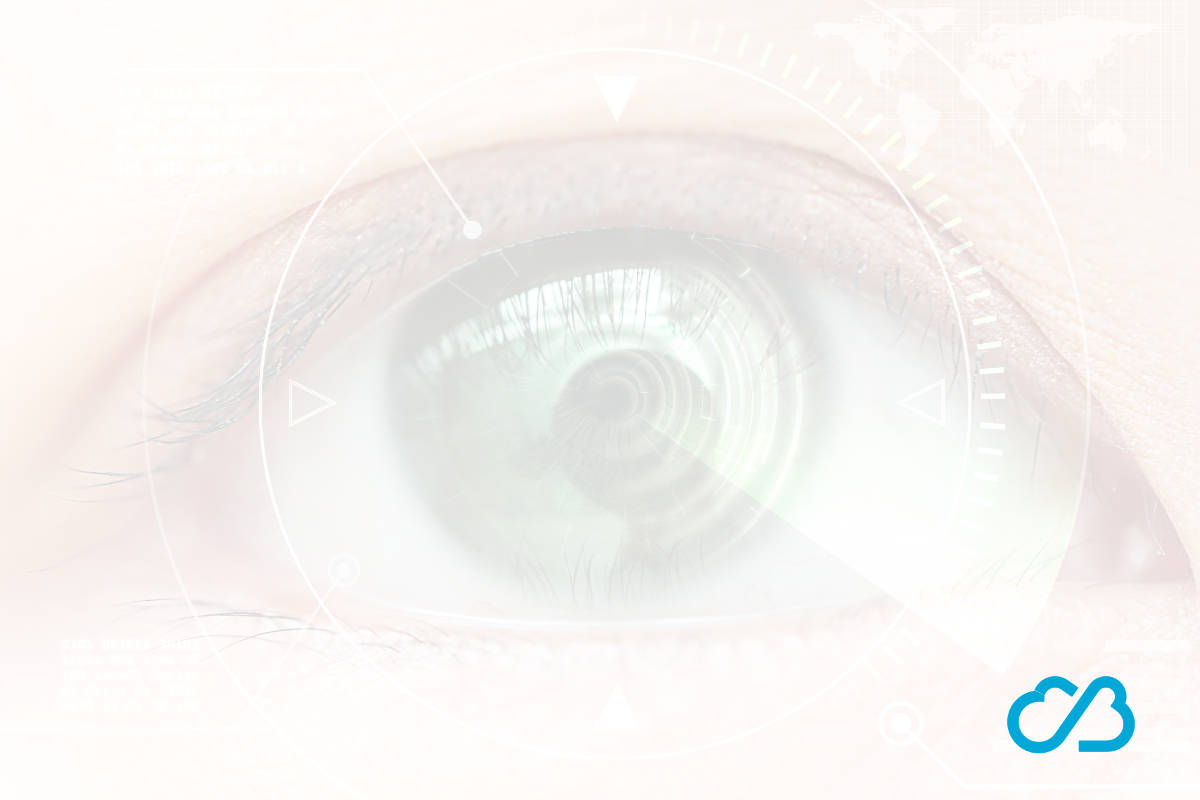
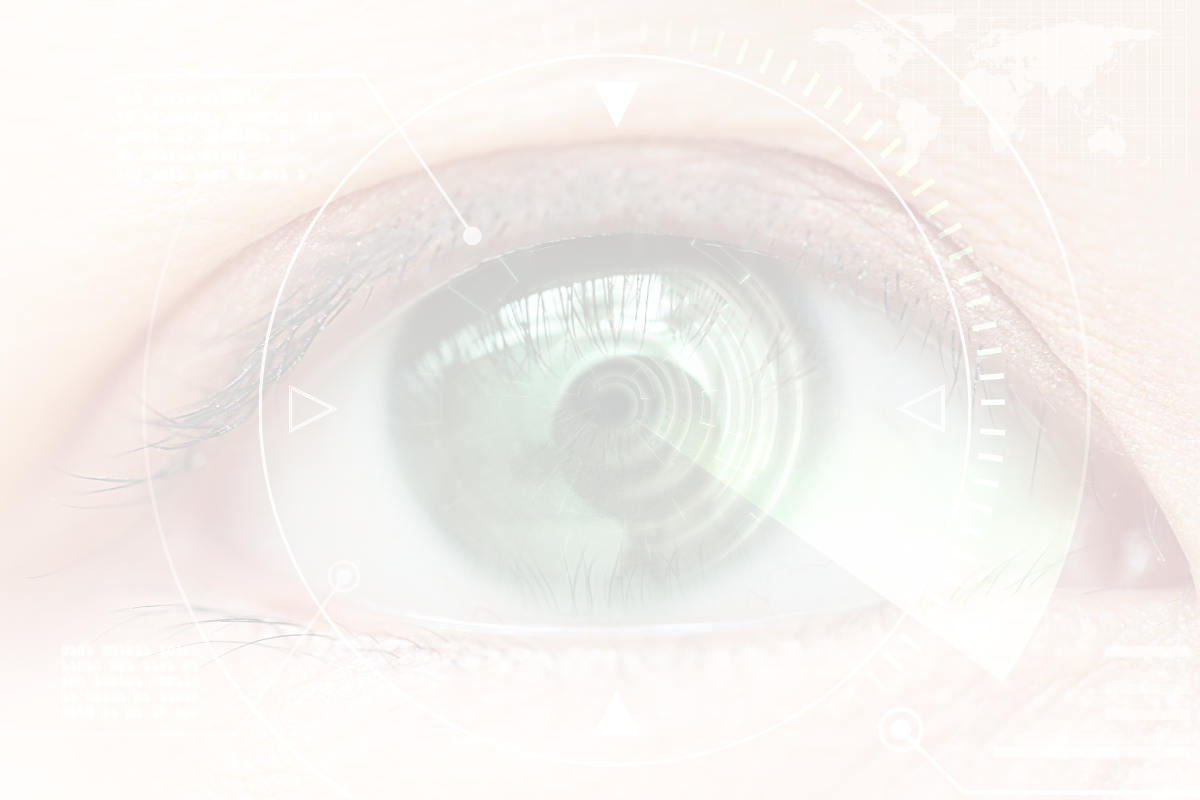
a broken link to the main picture fixed

diff --git a/webProject/testwebpage/style.css b/webProject/testwebpage/style.css
@@ -481,6 +481,9 @@ iframe{
 .bg-bigstock-Future-technology-Touch-butto-99366956-min-bright{
 	background-image:url("img/bigstock-Future-technology-Touch-butto-99366956-min_bright.jpg");
 }
+.bg-bigstock-Close-Up-Women-Eye-Scanning-Te-106901384-min-bright{
+        background-image:url("img/bigstock-Close-Up-Women-Eye-Scanning-Te-106901384-min_bright.jpg?timestamp=1460218828272");
+}
 .bg-bigstock-woman-hand-holding-an-old-door-98401496-3-bright{
 	background-image:url("img/bigstock-woman-hand-holding-an-old-door-98401496_3_bright.jpg");
 }
